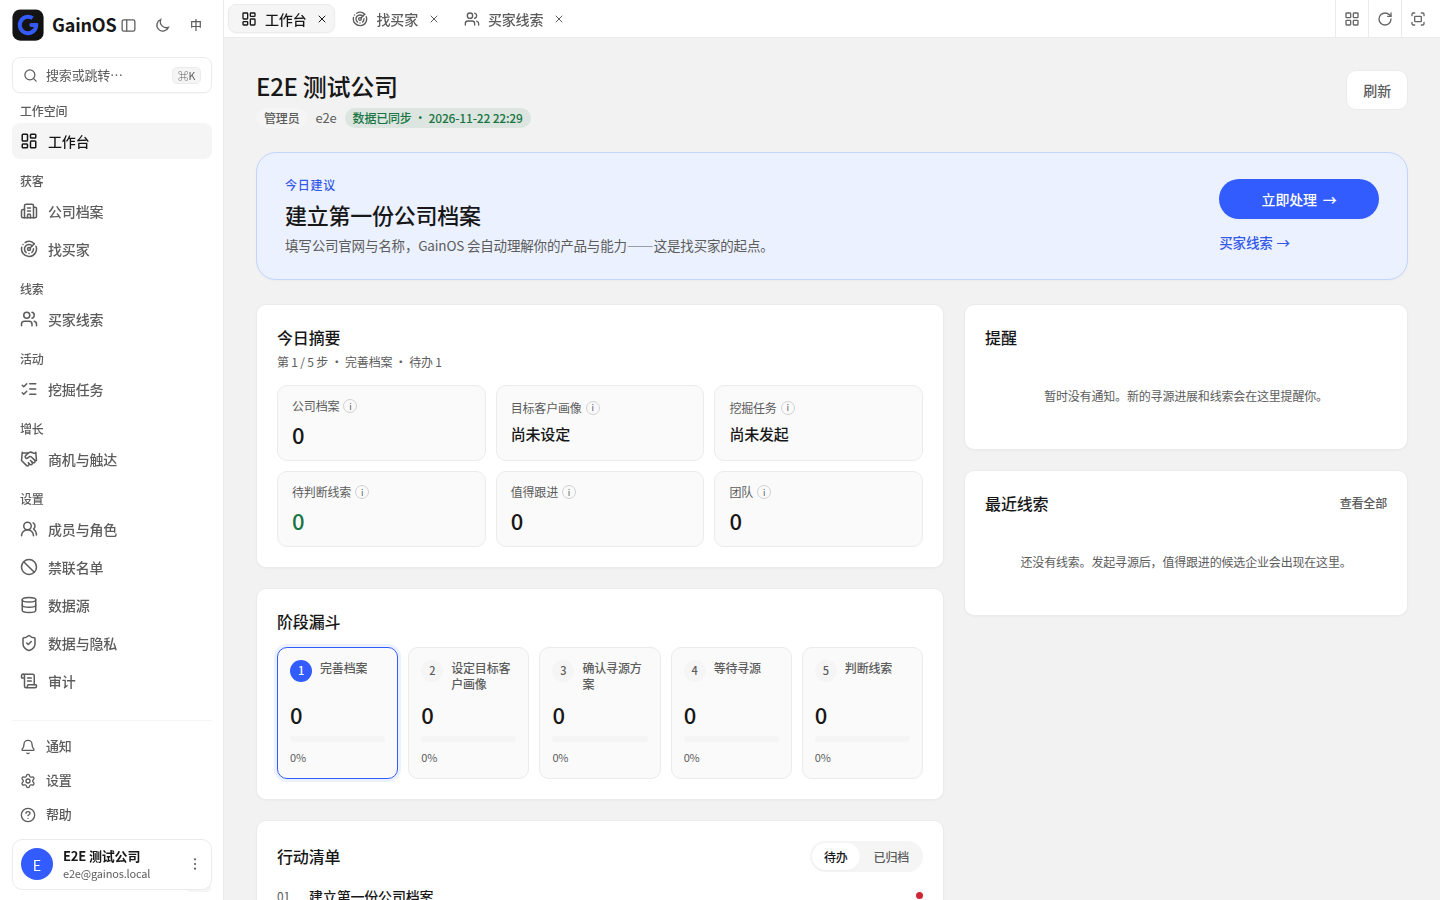
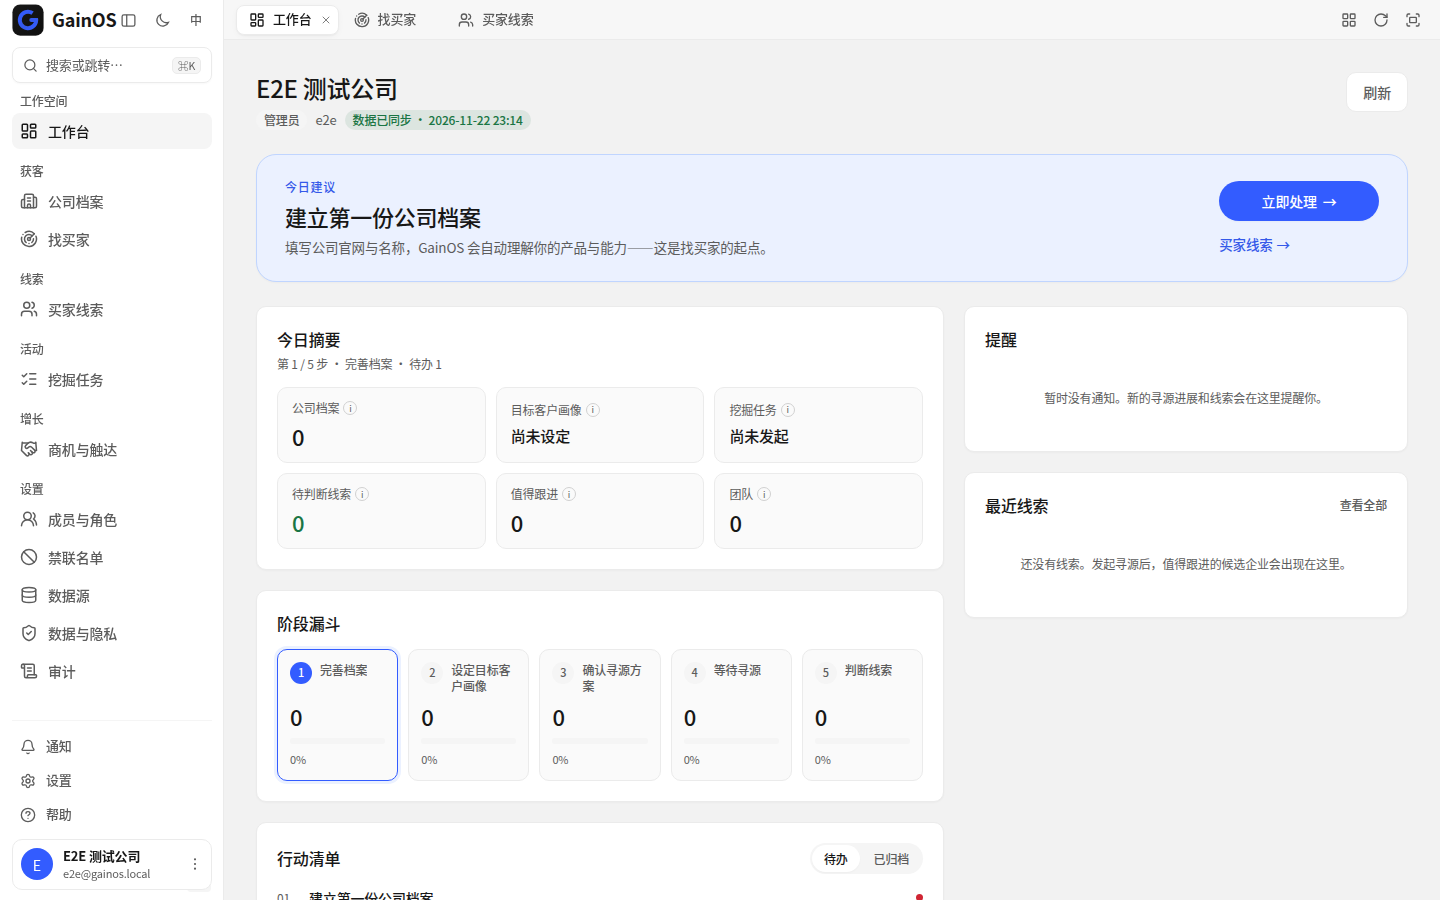
feat(ui): award-grade tab bar — floating card language
Real design pass on the top tab bar (was a plain gray pill set):

- canvas: bar takes page bg (--gs-bg), active page is a 30px white card
  (surface + 1px border + two-layer micro shadow) floating in a 40px band
- typography: 13px/500, -0.011em; inactive tabs are bare muted text,
  hover washes in 5% ink; long titles ellipsize at 180px
- micro-interactions: close × only on hover/active (pointer-events:none
  while hidden so it can't be mis-clicked), 26px slot reserved so width
  never jumps, collapses to 12px when no close; press scale .985; 150ms
  color/shadow transitions; focus-visible brand ring
- tools: drop Vben's per-button left borders for 30px rounded chips
  (34px on touch widths)
- dark: border-strong edge + 1px inner top highlight for materiality
- band alignment: header.height 40 == tabbar height, so the sidebar
  brand row and tab bar form one continuous top band at the seam
- spec: computed-style assertions (white/30px/13px), close-hidden
  then hover-reveal, hover-then-close interaction; evidence reshoot

diff --git a/apps/web/src/styles/gainos.css b/apps/web/src/styles/gainos.css
@@ -335,61 +335,155 @@ h6 {
   }
 }
 
-/* ── pass5：顶部标签页（AgentSDR 风格）──
-   顶栏隐藏后 tabbar 是顶部唯一元素；Vben card 式默认蓝底/蓝字
-   （bg-primary/15 + text-primary），品牌方向改成与侧栏一致的
-   中性灰药丸 + fg 文字。选择器用组件自带的 data-tab-item。 */
+/* ── pass5：顶部标签页（「白卡浮于画布」语言）──
+   顶栏隐藏后 tabbar 是顶部唯一元素。设计语言：
+   - 画布：标签栏取页面底色，白色侧栏与白色当前页卡片自然分层；
+   - 当前页：30px 白卡 + 1px 描边 + 微阴影，浮在 40px 栏内；
+   - 非当前页：纯文字，hover 浮出极浅底；关闭符只在 hover/当前页出现，
+     平时不可见也不可点（防误关），一排 × 的视觉噪音随之消失。
+   Vben card 式默认蓝底蓝字，全部由这里接管（packages/ 禁改）。 */
+[data-layout-region='header'] {
+  --gs-tab-hover: rgba(23, 23, 23, 0.05);
+}
+.dark [data-layout-region='header'] {
+  --gs-tab-hover: rgba(255, 255, 255, 0.07);
+}
+
 [data-layout-region='header'] section {
   border-bottom: 1px solid var(--gs-border);
+  background: var(--gs-bg);
 }
 
-/* 右侧工具组（更多/刷新/最大化）最后一个按钮默认顶到视口边缘，补右侧呼吸。 */
-[data-layout-region='header'] section > div:last-child {
-  padding-right: 6px;
+/* 标签条：8px 起止留白 + 2px 间隙（覆盖 Vben card 式的 ml-2 外边距） */
+[data-layout-region='header'] .vben-tabs-content {
+  gap: 2px;
+  padding-left: 12px;
+  padding-right: 12px;
 }
 
-[data-tab-item] {
-  height: calc(100% - 8px);
-  margin-left: 4px;
+[data-layout-region='header'] [data-tab-item] {
+  height: 30px;
+  margin-left: 0;
   border: 1px solid transparent;
   border-radius: 8px;
   background: transparent;
-  color: var(--gs-fg-2);
+  color: var(--gs-fg-muted);
   font-weight: 500;
+  transform: translateZ(0);
+  transition: background-color 0.15s ease, color 0.15s ease,
+    border-color 0.15s ease, box-shadow 0.15s ease, transform 0.12s ease;
 }
-
-[data-tab-item]:hover {
-  background: var(--gs-surface-2);
+[data-layout-region='header'] [data-tab-item]:hover {
+  background: var(--gs-tab-hover);
   color: var(--gs-fg);
 }
-
-[data-tab-item].is-active {
+[data-layout-region='header'] [data-tab-item].is-active {
   border-color: var(--gs-border);
-  background: var(--gs-surface-2);
+  background: var(--gs-surface);
   color: var(--gs-fg);
-  box-shadow: var(--gs-shadow-xs);
+  box-shadow: 0 1px 2px rgba(10, 10, 10, 0.04),
+    0 2px 8px -3px rgba(10, 10, 10, 0.08);
+}
+[data-layout-region='header'] [data-tab-item]:active {
+  transform: scale(0.985);
+}
+[data-layout-region='header'] [data-tab-item]:focus-visible {
+  outline: none;
+  box-shadow: var(--gs-shadow-focus);
+}
+.dark [data-layout-region='header'] [data-tab-item].is-active {
+  border-color: var(--gs-border-strong);
+  /* 深色卡的材质感：顶部 1px 内高光，模拟受光面 */
+  box-shadow: inset 0 1px 0 rgba(255, 255, 255, 0.04),
+    0 1px 2px rgba(0, 0, 0, 0.45);
 }
 
-/* 标题/图标/关闭符随 tab 前景走。Vben 把 text-primary 挂在中间层 div 上、
-   由 span 继承，所以这里对全部后代统一 inherit（Tailwind 任意变体选择器
-   权重更高，用 !important 终结；范围仅限 tab 内部）。 */
-[data-tab-item][data-tab-item][data-tab-item] * {
+/* 标题/图标/关闭符随 tab 前景走（Vben 把 text-primary 挂在中间层 div 上，
+   由子元素继承；这里对后代统一 inherit，并用 !important 压过 Tailwind 任意变体） */
+[data-layout-region='header'] [data-tab-item][data-tab-item][data-tab-item] * {
   color: inherit !important;
 }
-
-[data-tab-item] svg {
+[data-layout-region='header'] [data-tab-item] span {
+  font-size: 13px;
+  letter-spacing: -0.011em;
+}
+/* 长标题截断，避免一个页签吃掉整条标签栏 */
+[data-layout-region='header'] [data-tab-item] span[class*='flex-1'] {
+  max-width: 180px;
+}
+[data-layout-region='header'] [data-tab-item] svg {
   stroke: currentColor !important;
 }
 
-[data-tab-item] {
-  transition: background-color 0.15s ease, color 0.15s ease,
-    border-color 0.15s ease, box-shadow 0.15s ease;
+/* 标题内边距：左 12px；右侧预留关闭符槽位（12px 符 + 6px 边距 + 8px 间隙），
+   关闭符悬停出现时不会压住标题末字，且标签宽度稳定不跳动。 */
+[data-layout-region='header'] [data-tab-item] div[class*='mr-4'] {
+  margin: 0;
+  padding: 0 26px 0 12px;
+}
+/* 无关闭符（最后一个标签/不可关）时收回到 12px，单标签胶囊左右对称。 */
+[data-layout-region='header']
+  [data-tab-item]:has(.lucide-x[style*='display: none'])
+  div[class*='mr-4'] {
+  padding: 0 12px;
 }
 
-/* 移动端：抽屉开关固定在标签栏左侧（basic.vue .sdr-mobile-burger），标签让位。 */
+/* 关闭符：默认隐藏且不可点；hover / 当前页才出现 */
+[data-layout-region='header'] [data-tab-item] .absolute {
+  opacity: 0;
+  pointer-events: none;
+  transition: opacity 0.14s ease;
+}
+[data-layout-region='header'] [data-tab-item]:hover .absolute,
+[data-layout-region='header'] [data-tab-item].is-active .absolute {
+  opacity: 1;
+  pointer-events: auto;
+}
+[data-layout-region='header'] [data-tab-item] .absolute svg {
+  opacity: 0.55;
+  transition: opacity 0.14s ease;
+}
+[data-layout-region='header'] [data-tab-item] .absolute svg:hover {
+  opacity: 1;
+}
+
+/* 右侧工具组：去掉 Vben 的竖分隔线与块状热区，改为同语言的小圆角按钮。
+   结构：div.flex-center > button(下拉触发器) > div.flex-center(真实热区) 或无触发器。 */
+[data-layout-region='header'] section > div:last-child {
+  gap: 2px;
+  padding-right: 12px;
+}
+[data-layout-region='header'] section > div:last-child > *,
+[data-layout-region='header'] section > div:last-child > * > div {
+  display: inline-flex !important;
+  align-items: center;
+  justify-content: center;
+  width: 30px;
+  height: 30px;
+  padding: 0 !important;
+  border: 0 !important;
+  border-radius: 8px !important;
+  background: transparent;
+  color: var(--gs-fg-muted) !important;
+  font-size: 16px;
+  transition: background-color 0.15s ease, color 0.15s ease;
+}
+[data-layout-region='header'] section > div:last-child > *:hover,
+[data-layout-region='header'] section > div:last-child > *:hover > div {
+  background: var(--gs-tab-hover);
+  color: var(--gs-fg) !important;
+}
+
+/* 移动端：抽屉开关固定在标签栏左侧（basic.vue .sdr-mobile-burger），标签让位；
+   工具按钮放大到 34px，改善触屏命中率。 */
 @media (max-width: 767px) {
   [data-layout-region='header'] section {
     padding-left: 44px;
+  }
+  [data-layout-region='header'] section > div:last-child > *,
+  [data-layout-region='header'] section > div:last-child > * > div {
+    width: 34px;
+    height: 34px;
   }
 }
 

diff --git a/apps/web/e2e/pass5-shell.spec.ts b/apps/web/e2e/pass5-shell.spec.ts
@@ -34,29 +34,55 @@ test('顶部标签页：导航留痕、active 药丸、点击切回', async ({ p
   await settle(page);
   await expect(page.locator('[data-tab-item]')).toHaveCount(3);
 
-  // active 是灰底药丸 + 近黑文字（AgentSDR 规格，非蓝底蓝字）。
+  // active 是浮起的白卡（40px 画布栏内的 30px 卡片）：白底 + 灰边 + 近黑字，
+  // 非 Vben 默认的蓝底蓝字；关闭符只在 hover/当前页出现（不可见时不可点）。
   const active = page.locator('[data-tab-item].is-active');
   await expect(active).toHaveText(/买家线索/);
   const styles = await active.evaluate((el) => {
     const cs = getComputedStyle(el);
-    const span = el.querySelector('span');
+    const span = el.querySelector('span[class*="flex-1"]');
     return {
       bg: cs.backgroundColor,
+      border: cs.borderTopColor,
       color: cs.color,
+      height: cs.height,
       title: span ? getComputedStyle(span).color : '',
+      titleFont: span ? getComputedStyle(span).fontSize : '',
     };
   });
-  expect(styles.bg).toBe('rgb(245, 245, 245)');
+  expect(styles.bg).toBe('rgb(255, 255, 255)');
+  expect(styles.border).toBe('rgb(235, 235, 235)');
   expect(styles.color).toBe('rgb(23, 23, 23)');
   expect(styles.title).toBe('rgb(23, 23, 23)');
+  expect(styles.height).toBe('30px');
+  expect(styles.titleFont).toBe('13px');
+
+  // 非当前标签：关闭符隐藏且不可点（防误关）。
+  const inactiveClose = page
+    .locator('[data-tab-item]')
+    .first()
+    .locator('.absolute');
+  expect(await inactiveClose.evaluate((el) => getComputedStyle(el).opacity)).toBe('0');
+  expect(
+    await inactiveClose.evaluate((el) => getComputedStyle(el).pointerEvents),
+  ).toBe('none');
+  // hover 后浮出。
+  await page.locator('[data-tab-item]').first().hover();
+  await expect
+    .poll(async () =>
+      inactiveClose.evaluate((el) => getComputedStyle(el).opacity),
+    )
+    .toBe('1');
 
   // 点击第一个标签切回工作台（用户自由切换页签）。
   await page.locator('[data-tab-item]').first().click();
   await page.waitForURL((url) => url.pathname === '/workspace');
   await expect(page.locator('[data-tab-item].is-active')).toHaveText(/工作台/);
 
-  // 关闭非当前标签：数量减一，且不影响所在页。
-  await page.locator('[data-tab-item]').nth(1).locator('svg').first().click();
+  // 关闭非当前标签：关闭符 hover 才出现（pass5 交互），先悬停再点 ×。
+  const secondTab = page.locator('[data-tab-item]').nth(1);
+  await secondTab.hover();
+  await secondTab.locator('.absolute .lucide-x').click();
   await settle(page);
   await expect(page.locator('[data-tab-item]')).toHaveCount(2);
   await expect(page.locator('.wk')).toBeVisible();

diff --git a/apps/web/src/preferences.ts b/apps/web/src/preferences.ts
@@ -51,6 +51,8 @@ export const overridesPreferences = defineOverridesPreferences({
   // 卡片式药丸标签，配合 token 已归一的 primary/accent/border 保持 AgentSDR 质感。
   tabbar: {
     enable: true,
+    // 40px 栏 + 30px 浮卡：上下各 5px 呼吸，白卡才浮得起来。
+    height: 40,
     showIcon: true,
     styleType: 'card',
   },
@@ -60,6 +62,8 @@ export const overridesPreferences = defineOverridesPreferences({
   // pass5：藏掉 Vben 顶栏——操作全部在左侧栏（主题/语言/折叠在品牌行，
   // 通知/设置/账号在侧栏底部）；刷新由标签栏右侧工具按钮承担。
   header: {
+    // 与标签栏同高（40px）：侧栏品牌行与标签栏合成一条顶部横带，接缝处不错位。
+    height: 40,
     hidden: true,
   },
   // 顶栏只保留与产品相关的能力:搜索、主题、语言、全屏、刷新、通知、退出。

diff --git a/apps/web/src/main.ts b/apps/web/src/main.ts
@@ -26,7 +26,7 @@ const BRAND_PREFERENCES = {
     sourceDark: '/logo-gainos.svg?v=pass3',
   },
   sidebar: { collapsedButton: false },
-  tabbar: { enable: true },
+  tabbar: { enable: true, height: 40 },
   theme: { builtinType: 'default', colorPrimary: '#335CFF' },
   // pass4：顶栏部件清单也归一——老缓存里的 themeToggle/languageToggle=true
   // 会让顶栏重新长出主题/语言按钮（与侧栏重复）。

diff --git a/docs/evidence/ui-restyle/inventory.md b/docs/evidence/ui-restyle/inventory.md
@@ -1595,8 +1595,8 @@ tone：COMPLETED `is-ok` / FAILED `is-bad` / ERASING、FROZEN `is-warn` / 其他
 | 变化 | 实现 |
 |---|---|
 | 顶栏整体隐藏 | `preferences.header.hidden: true`（+ BRAND_PREFERENCES 缓存归一） |
-| 顶部 = 标签栏 | `tabbar: {enable, showIcon, styleType:'card'}`；高度 38px |
-| 标签风格 | gainos.css：灰底药丸 active（rgb(245,245,245) + rgb(23,23,23)，与侧栏 active 同款），1px 灰边 + xs 阴影，8px 圆角，字重 500 |
+| 顶部 = 标签栏 | `tabbar: {enable, showIcon, styleType:'card', height:40}`；40px 画布栏；`header.height: 40` 让侧栏品牌行与标签栏合成同一条顶部横带（接缝不错位） |
+| 标签风格 | 「白卡浮于画布」：标签栏取页面底色 `--gs-bg`，当前页 = 30px 白卡（`--gs-surface`）+ 1px 灰边 + 双层微阴影 + 8px 圆角 + 13px/500 近黑字；非当前页纯文字（muted），hover 浮出 5% 淡底；关闭符仅 hover/当前页出现（不可见时 pointer-events:none 防误关），右侧恒留 26px 关闭槽位保证宽度稳定；无关闭符时收回到 12px 左右对称；长标题 180px 截断；深色卡 edges 用 border-strong + 1px 内高光 |
 | 侧栏左下角操作区 | sdr-sidebar footer：分隔线 + 通知行（未读红点→/notifications）+ 设置行（→/settings/members）+ 帮助行（Popover：⌘K 快捷键 + 版本号） |
 | 工作空间账号卡 | 头像/首字母兜底 + 空间名 + 账号 + ⋮ Dropdown（空间头 + 通知/设置/退出登录 danger） |
 | 品牌行三按钮 | 折叠（sidebar.collapsedButton=false 后 Vben 左下按钮关闭）、主题、语言 |
@@ -1613,11 +1613,13 @@ tone：COMPLETED `is-ok` / FAILED `is-bad` / ERASING、FROZEN `is-warn` / 其他
 
 ### 14.3 视觉自检（获奖级标准逐项）
 
-- 排版/留白：标签 14px/500、侧栏 footer 行 13px/32px、账号卡 13/11px 两级；rail 60px 列 40px 内容。
-- 色彩：active 药丸灰底近黑字（组件级 computed 断言钉住），无蓝底蓝字残留（group-variant text-primary 用 `[data-tab-item][data-tab-item][data-tab-item] *` + !important 终结）。
-- 动效/微交互：标签 bg/color/border/阴影 150ms 过渡；账号卡 hover 边框加深。
-- 响应式：移动端 burger+标签栏无重叠（390px 实测）、抽屉可用；桌面 rail 不再覆盖内容（宽度修复）。
-- 顶栏工具组右侧补 6px 呼吸（原本最后一个按钮顶到视口边缘）。
+- 排版：标签 13px/500、-0.011em；栏内 40px 高、30px 卡、上下各 5px 呼吸；左右 12px 与侧栏节奏对齐；标签间 2px。
+- 留白/层级：当前页白卡 + 微阴影浮于 `--gs-bg` 画布之上，非当前页只留文字——一眼可辨“我在哪、还能去哪”。
+- 色彩：全程中性（muted #5C5C5C on #F7F7F7 ≈ 6.2:1），品牌蓝只留给主行动与 focus 环；深色卡 #1C1C1C + border-strong #333 + 顶部 1px 内高光。
+- 动效：颜色/背景/描边/阴影 150ms；按压 scale .985（120ms）；关闭符 140ms 淡入；无布局动画。
+- 微交互：关闭符 hover 才出现且不可见时不可点；hover 淡底；工具按钮（更多/刷新/最大化）去掉竖分隔线改 30px 圆角热区，移动端 34px；focus-visible 品牌环。
+- 响应式：移动端 burger 44×40 + 标签栏 padding-left 44px 无重叠（390px 实测）；标签长标题 180px 截断。
+- 原创性：不做 Chrome 式“附着页签”，采用与侧栏 active 同语言的“白卡浮层”+ 恒留关闭槽位 + 按需出现关闭符，形成本产品自己的标签语言。
 
 ### 14.4 测试与证据
 
